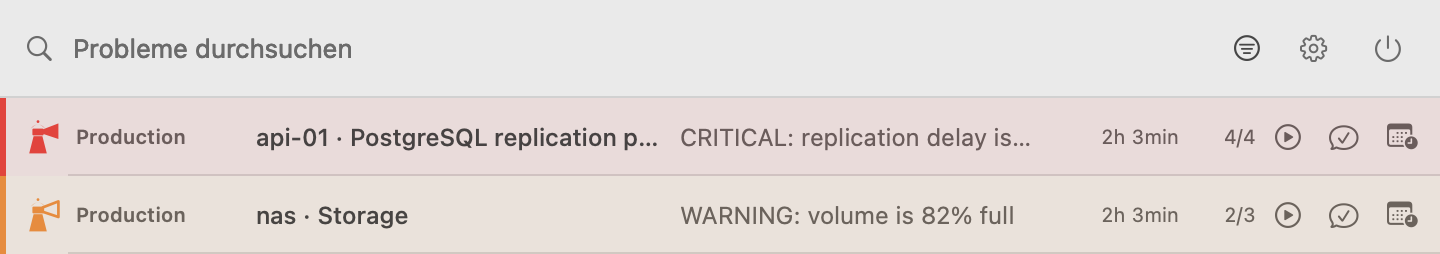
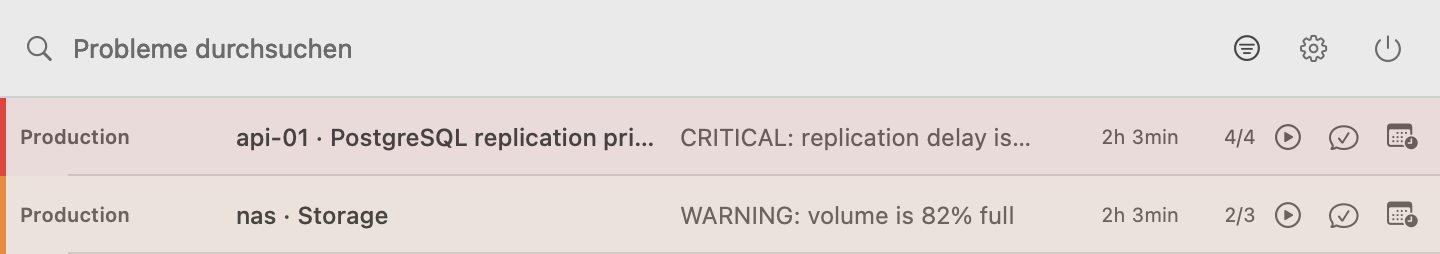
fix: simplify monitoring rows

diff --git a/IssueLight/Sources/StatusMenuView.swift b/IssueLight/Sources/StatusMenuView.swift
@@ -439,18 +439,15 @@ private struct StatusPanelSourceFailureRow: View {
 
     var body: some View {
         HStack(spacing: 8) {
-            IssueLightSignalGlyph(state: .failed)
-                .foregroundStyle(.red)
-                .frame(width: 20, height: 20)
             Text(verbatim: failure.source.name)
                 .font(.caption.weight(.semibold))
                 .foregroundStyle(.secondary)
                 .lineLimit(1)
-                .frame(width: 82, alignment: .leading)
+                .frame(width: 100, alignment: .leading)
             Text(verbatim: AppLocalization.string("Status konnte nicht geladen werden", locale: locale))
                 .font(.callout.weight(.medium))
                 .lineLimit(1)
-                .frame(width: 204, alignment: .leading)
+                .frame(width: 214, alignment: .leading)
             Text(verbatim: failure.message)
                 .font(.callout)
                 .foregroundStyle(.secondary)
@@ -465,7 +462,7 @@ private struct StatusPanelSourceFailureRow: View {
                 .fill(Color.red)
                 .frame(width: 3)
         }
-        .overlay(alignment: .bottom) { Divider().padding(.leading, 34) }
+        .overlay(alignment: .bottom) { Divider().padding(.leading, 10) }
         .help(hoverText)
         .accessibilityElement(children: .ignore)
         .accessibilityLabel(hoverText)
@@ -760,19 +757,16 @@ private struct StatusPanelIssueRow: View {
 
     var body: some View {
         HStack(spacing: 8) {
-            IssueLightSignalGlyph(state: signalState)
-                .foregroundStyle(color)
-                .frame(width: 20, height: 20)
             Text(verbatim: sourceName)
                 .font(.caption.weight(.semibold))
                 .foregroundStyle(.secondary)
                 .lineLimit(1)
-                .frame(width: 82, alignment: .leading)
+                .frame(width: 100, alignment: .leading)
             Text(verbatim: title)
                 .font(.callout.weight(.medium))
                 .lineLimit(1)
-                .frame(width: 204, alignment: .leading)
-            Text(verbatim: issue.summary)
+                .frame(width: 214, alignment: .leading)
+            Text(verbatim: summaryText)
                 .font(.callout)
                 .foregroundStyle(.secondary)
                 .lineLimit(1)
@@ -806,21 +800,6 @@ private struct StatusPanelIssueRow: View {
         issue.kind == .host ? issue.displayName : "\(issue.hostName) · \(issue.displayName)"
     }
 
-    private var signalState: IssueLightSignalState {
-        if issue.kind == .host {
-            return .down
-        }
-        switch issue.severity {
-        case .critical: return .critical
-        case .unknown: return .unknown
-        case .warning: return .warning
-        }
-    }
-
-    private var color: Color {
-        issue.presentationColor
-    }
-
     private var severityText: String {
         if issue.kind == .host {
             return "DOWN"
@@ -830,6 +809,20 @@ private struct StatusPanelIssueRow: View {
         case .unknown: return AppLocalization.string("Unbekannt", locale: locale)
         case .warning: return AppLocalization.string("Warnung", locale: locale)
         }
+    }
+
+    private var summaryText: String {
+        let summary = issue.summary.trimmingCharacters(in: .whitespacesAndNewlines)
+        let normalizedSummary = summary.lowercased(with: locale)
+        let knownPrefixes = ["CRITICAL", "WARNING", "UNKNOWN", "DOWN", severityText]
+        let alreadyIncludesState = knownPrefixes.contains { prefix in
+            let normalizedPrefix = prefix.lowercased(with: locale)
+            return normalizedSummary == normalizedPrefix
+                || normalizedSummary.hasPrefix("\(normalizedPrefix):")
+                || normalizedSummary.hasPrefix("\(normalizedPrefix) ")
+                || normalizedSummary.hasPrefix("\(normalizedPrefix) ·")
+        }
+        return alreadyIncludesState ? summary : "\(severityText) · \(summary)"
     }
 
     private var durationText: String? {
@@ -868,7 +861,7 @@ private struct StatusPanelIssueRow: View {
     }
 
     private var hoverText: String {
-        [sourceName, title, issue.summary]
+        [sourceName, severityText, title, issue.summary]
             .filter { !$0.isEmpty }
             .joined(separator: "\n")
     }
